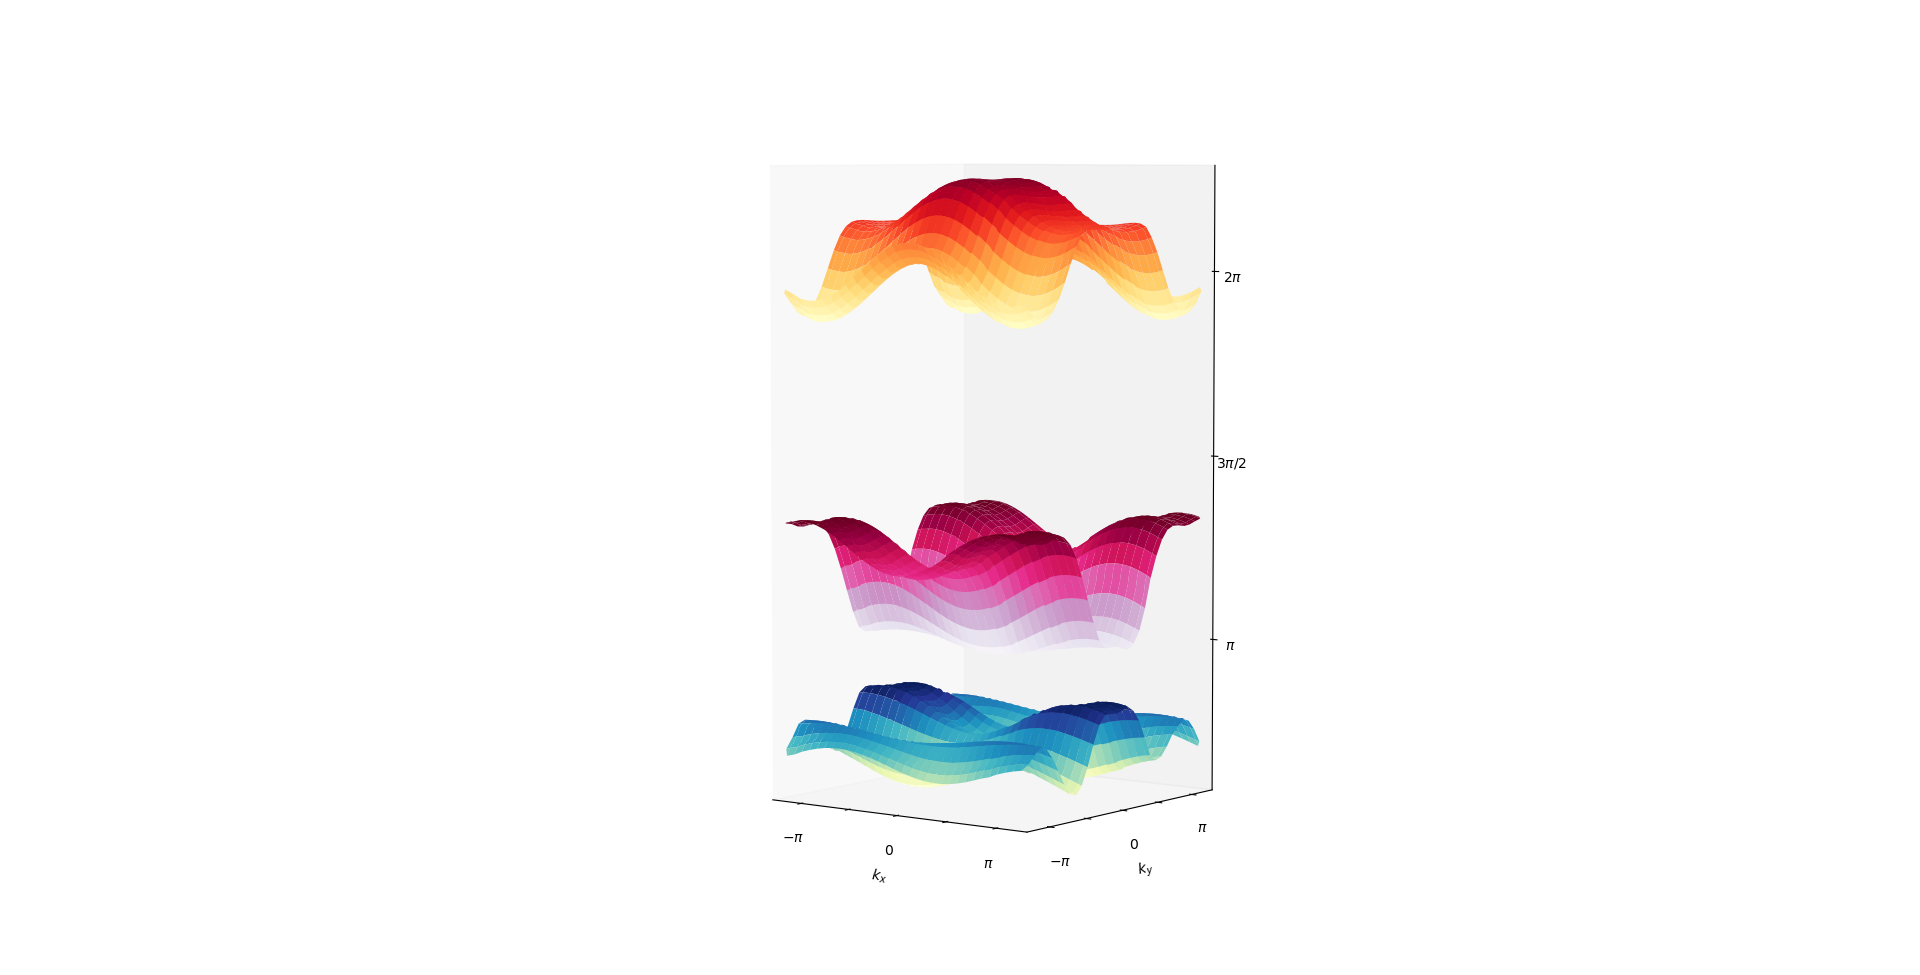
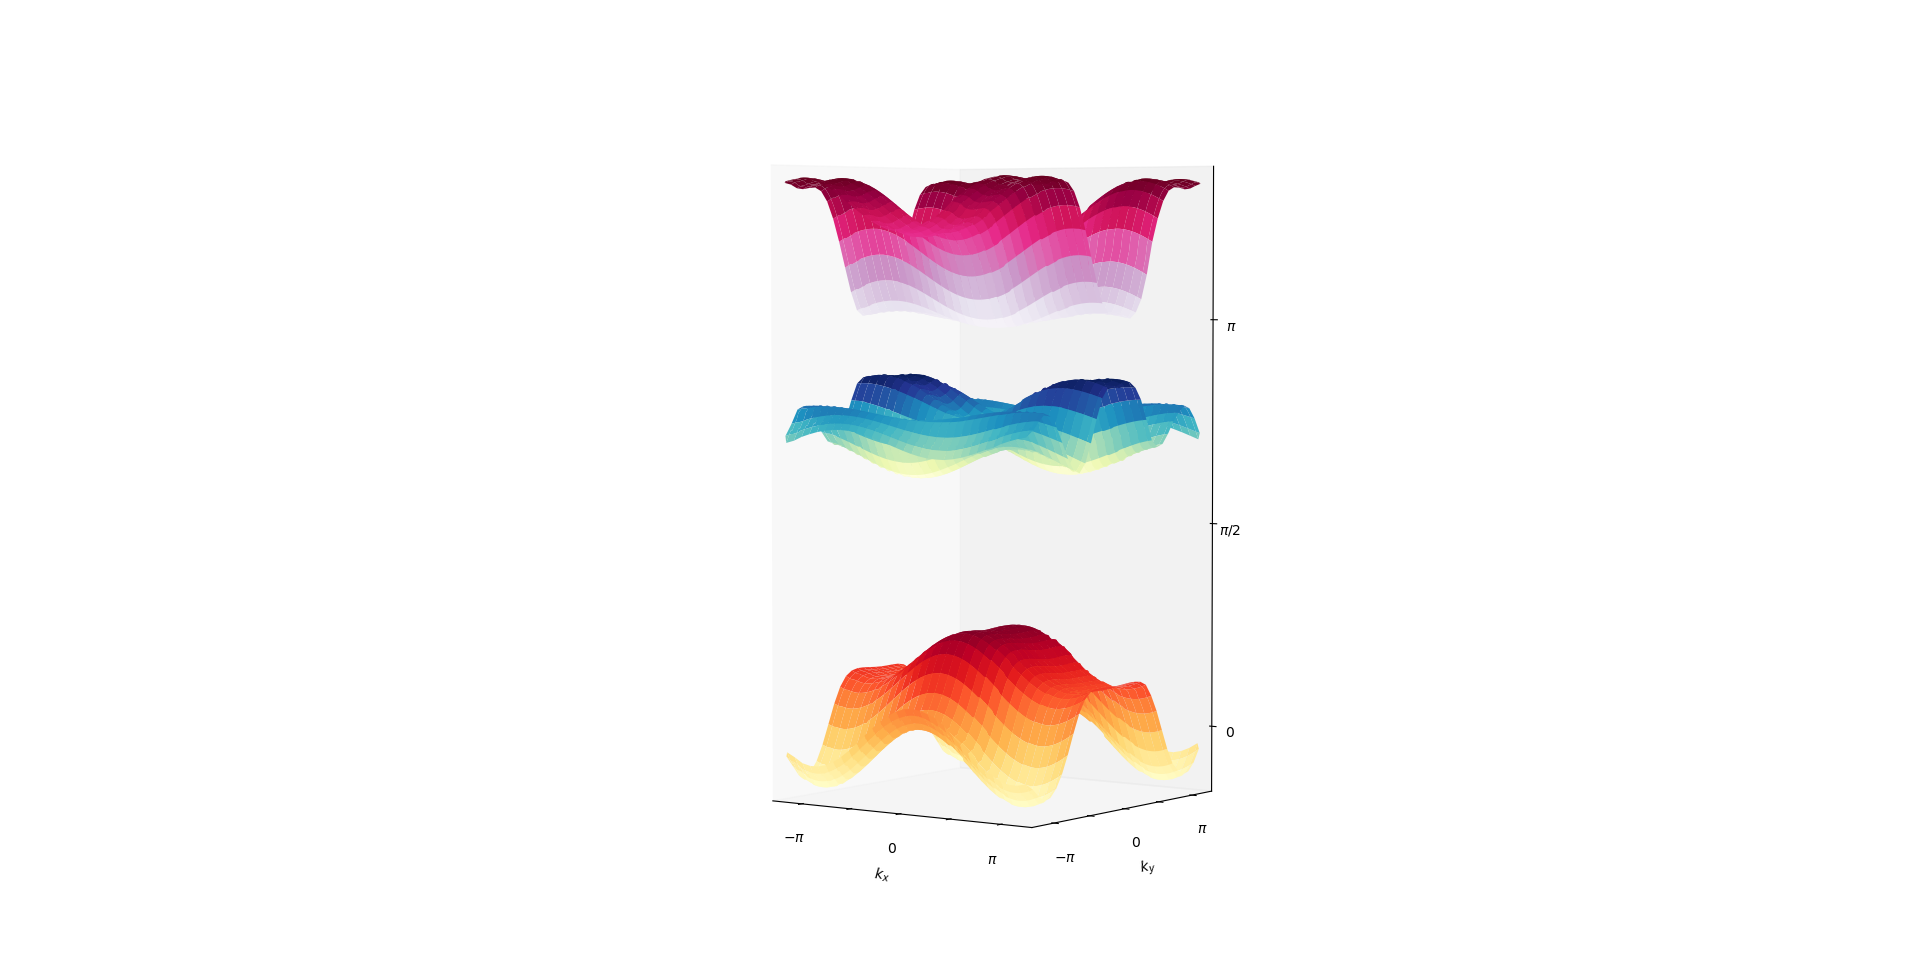
Braiding

Changed region(s): [[0.4062, 0.3692, 0.6562, 0.8615], [0.4062, 0.1846, 0.6562, 0.3385], [0.625, 0.4615, 0.6562, 0.4923]]

diff --git a/square_complete.py b/square_complete.py
@@ -17,7 +17,7 @@ plot_from_save = True
 
 # PARAMETERS
 delta_A = 0
-delta_C = -2.5
+delta_C = -3
 omega = 11
 A_x = 1
 A_y = 1
